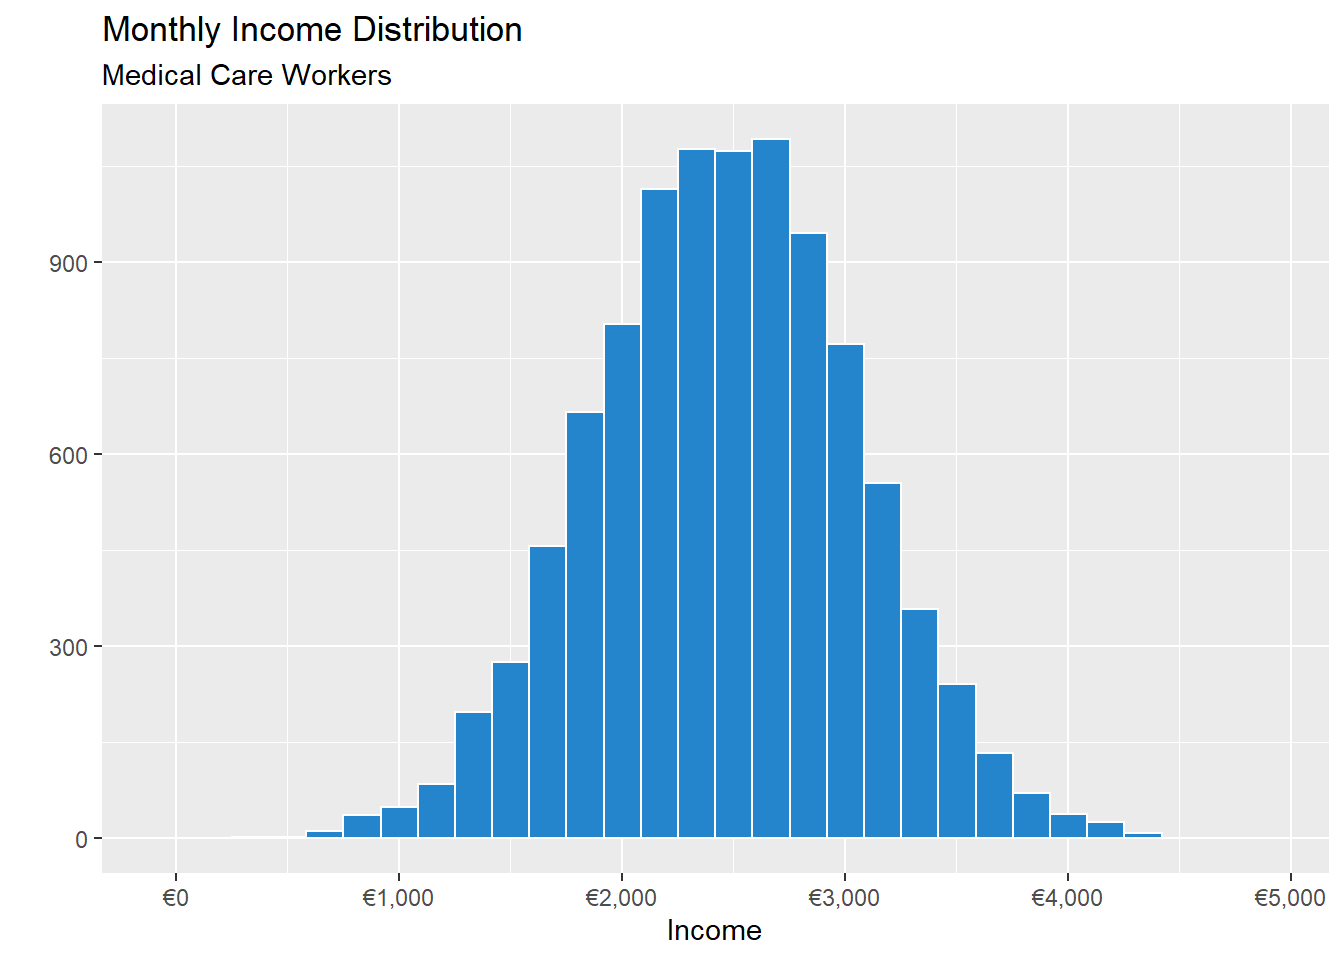
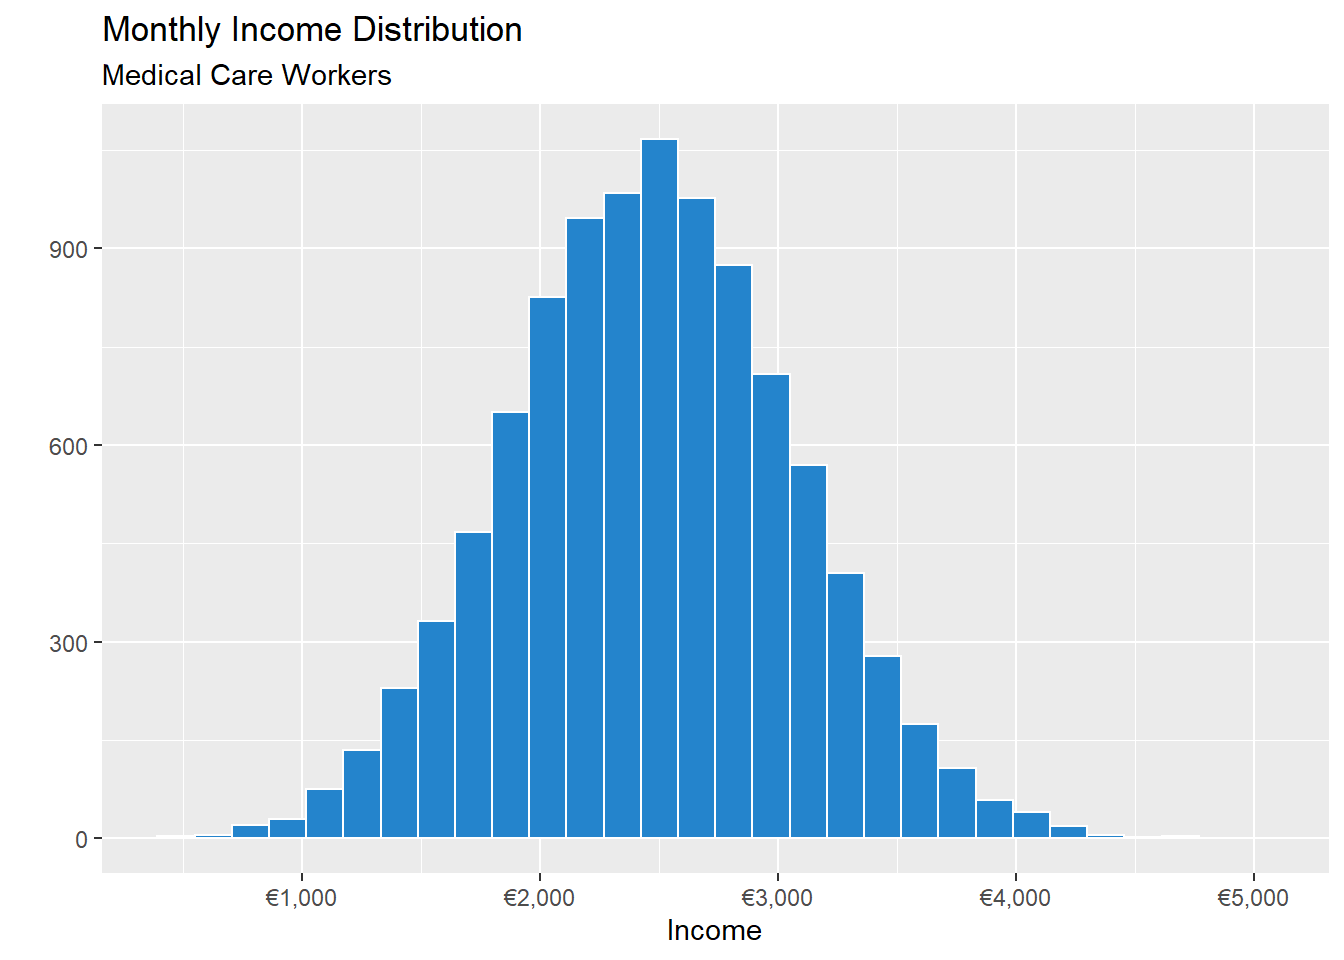
Decision making in uncertainty - Coding Examples

diff --git a/content/post/2021-03-18-decision-making-with-uncertainty/index.en.html b/content/post/2021-03-18-decision-making-with-uncertainty/index.en.html
@@ -83,20 +83,44 @@ draft: true
 <div id="the-method" class="section level1">
 <h1>The method</h1>
 <p>Everything in nature is subject to variety so we will assume that the income will vary as based on different factors. Therefore we cannot generate a single number and say <em>“There! this is the expected income if you choose this career!”</em>.</p>
-<p>As an example, if I were to choose to study medicine, I might have an ideea of what kind of doctor I want to be, however that does not guarantee that I will end up in that particular field. I might not like the field once I go into the nitty gritty of it, or I might like another field more once I find out more about it. Since I cannot control that I will try to simulate multiple outcomes and see overall which career is the best taking into account its highs and lows.</p>
+<p>As an example, if I were to choose to study medicine, I might have an idea of what kind of doctor I want to be, however that does not guarantee that I will end up in that particular field. I might not like the field once I go into the nifty gritty of it, or I might like another field more once I find out more about it. Since I cannot control that I will try to simulate multiple outcomes and see overall which career is the best taking into account its highs and lows.</p>
 <p><em>E.g.:</em> If I were to choose between being a janitor who just won the lottery and being a doctor, I would chose to be the janitor. However, if I were to chose between the two and live 10,000 I would choose the doctor because the other 9,999 time it is the better outcome.</p>
 <p>How do we do this?</p>
 <p>We will gather data on each of the three career paths we have chosen and we will analyse it to try and figure out which are the main characteristics of the three populations, doctors, IT workers, and poker players. We will try to find out what is the average salary, how much does it usually vary from there, and if there is a tendency of most salaries to e over or under that average. Once we have all this information, we will extract a sample of that data of 10,000 randomly chosen salaries.</p>
 <div id="coding-examples" class="section level2">
 <h2>Coding examples</h2>
-<p>In order to better asses the situation, I will use some code. The code is written in <em>R</em>, however it can be ignored completely if you do not want to bother with it. I will try my best to comment the code properly so you can follow even if you are not familiar with <em>R</em>. If you want to learn more about this particular programming language, I would recommend <a href="https://r4ds.had.co.nz/">R for Data Science</a>, a brilliant book that is the perfect starting place.</p>
-<p>Let’s start coding. At first I would like to set up the variables that I will use in this article. I will explain later why I use these values, however I will use them repetedly so I will like to set them up now avoid changing them later in multiple places.</p>
-<p>Next I will like to write some custom function that will allow us to focus on the results, not on endless lines of code.</p>
+<p>Since we are analysing data we will need a tool that will allow us to do so. I will use <em>R</em> since it is a versatile tool that will allow us to create distributions and visualise then quite easily. The code can be completly ignored if you do not want to reproduce or analyse it, you can just focus on the graphs and the results. If you want to learn more about <em>R</em> I would recommend <a href="https://r4ds.had.co.nz/">R for Data Science</a>, a brilliant book that is the perfect starting place.</p>
+<p>Let’s start coding. At first I would like to set up the variables that I will use in this article. Since we will use these values multiple times in the article, I will store them here and if we need to adjust them at a later date, I can just change the values once, in here.</p>
+<p>The first values we want to encode are the average salaries. At the moment you can ignore the values, they will make sense when we come to the analysis itself.</p>
+<pre class="r"><code># Medical Salaries
+dr_sal_mean &lt;- 21100
+
+# IT Salaries
+it_sal_med_high &lt;- 225000 # Median Salary for Managers and Directors in IT
+it_sal_med_low  &lt;- 92809  # Median Salary for the everyone else working in IT </code></pre>
+<p>The salaries are encoded in here not later when we are analysing the careers themselves because it is a good practice to keep the variables in one place and the same goes for custom function. I will add some in here as well. This functions just store some lines of code that we will need to repeat over and over again and it is good coding practice to store such lines of code in one function so you can avoid having too many lines of code. Also, if we want to change something at a later date, we just need to adjust everything in one place.</p>
+<pre class="r"><code># Graphical function to avoid writing the same lines over and over
+histogram &lt;- function(.df){
+  
+  .df %&gt;% 
+    tibble() %&gt;% 
+    ggplot(aes(.)) +
+    geom_histogram(colour = &quot;white&quot;, fill = &quot;#2484cc&quot;) +
+    labs(x = &quot;Income&quot;, y = &quot;&quot;) +
+    scale_x_continuous(labels = label_dollar(prefix = &quot;€&quot;))
+}
+
+# Just a simple function to format the Romanian currency so I can used stored variables.
+ron_format &lt;- function(.x){
+  require(scales)
+  
+  dollar_format(prefix = &quot;&quot;, suffix = &quot; RON&quot;)(.x)
+}</code></pre>
+<p>With this out of the way, we have everything we need set up. The only thing that remains is to start analysing each career and then comparing them.</p>
 </div>
 </div>
 <div id="the-careers" class="section level1">
 <h1>The careers</h1>
-<p>In the next section I will describe each career, the variables that I will take into account and I will expose the code I will use to do so, if anyone wants to replicate it. The code is written in <em>R</em>.</p>
 <div id="the-doctor-of-the-medicine-not-who-variety" class="section level2">
 <h2>The Doctor (of the medicine not Who variety)</h2>
 <p>I all societies doctors are well respected and well paid. However, not all doctors are paid the same. We can assume that a neurosurgeon is paid better than a internist although not as well as a plastic surgeon.</p>
@@ -146,7 +170,7 @@ it_sal_dist &lt;- c(it_sal_low, it_sal_high)
 
 # We want to make sure the mean of our distribution if not far off from the actual distribution
 mean(it_sal_dist)</code></pre>
-<pre><code>#&gt; [1] 112526.1</code></pre>
+<pre><code>#&gt; [1] 112490.5</code></pre>
 <p>We can see the average salary of our distribution is quite close to the one from the website, so we can say that our distribution closely resembles the sampled population from the site. Salary distribution looks like below:</p>
 <pre class="r"><code>it_sal_dist %&gt;% 
   histogram() +
@@ -233,8 +257,8 @@ poker_players &lt;- c(avg_player, elt_player)</code></pre>
 <p>This distribution seems legit for a power law distribution. And now, for the final touch, we will need to add the 10% chance to become a professional player. We will do this by using the list we have created earlier. For this we will create a binomial distribution with a 10% probability and a size 1. Basically we can create a random string of values, either 1 or 0 and about 10% are one. Let’s see it in practice.</p>
 <pre class="r"><code>success_prob &lt;- rbinom(n = 10000, size = 1, prob = 0.1)
 print(sum(success_prob) / 10000)</code></pre>
-<pre><code>#&gt; [1] 0.0998</code></pre>
-<p>Perfect, 9.98% is exactly what we would expect.</p>
+<pre><code>#&gt; [1] 0.0979</code></pre>
+<p>Perfect, 9.79% is exactly what we would expect.</p>
 <p>Now all we need to do is multiply the two lists. When a value in the second list is 0 it will transform the earnings to 0, so we did not make it as a professional poker player. When it is 1 the result will not be affected.</p>
 <pre class="r"><code>poker_players_final &lt;- poker_players * success_prob</code></pre>
 <p>Now that we painfully and to the best of our knowledge created the populations, let’s proceed in analysing the data.</p>
